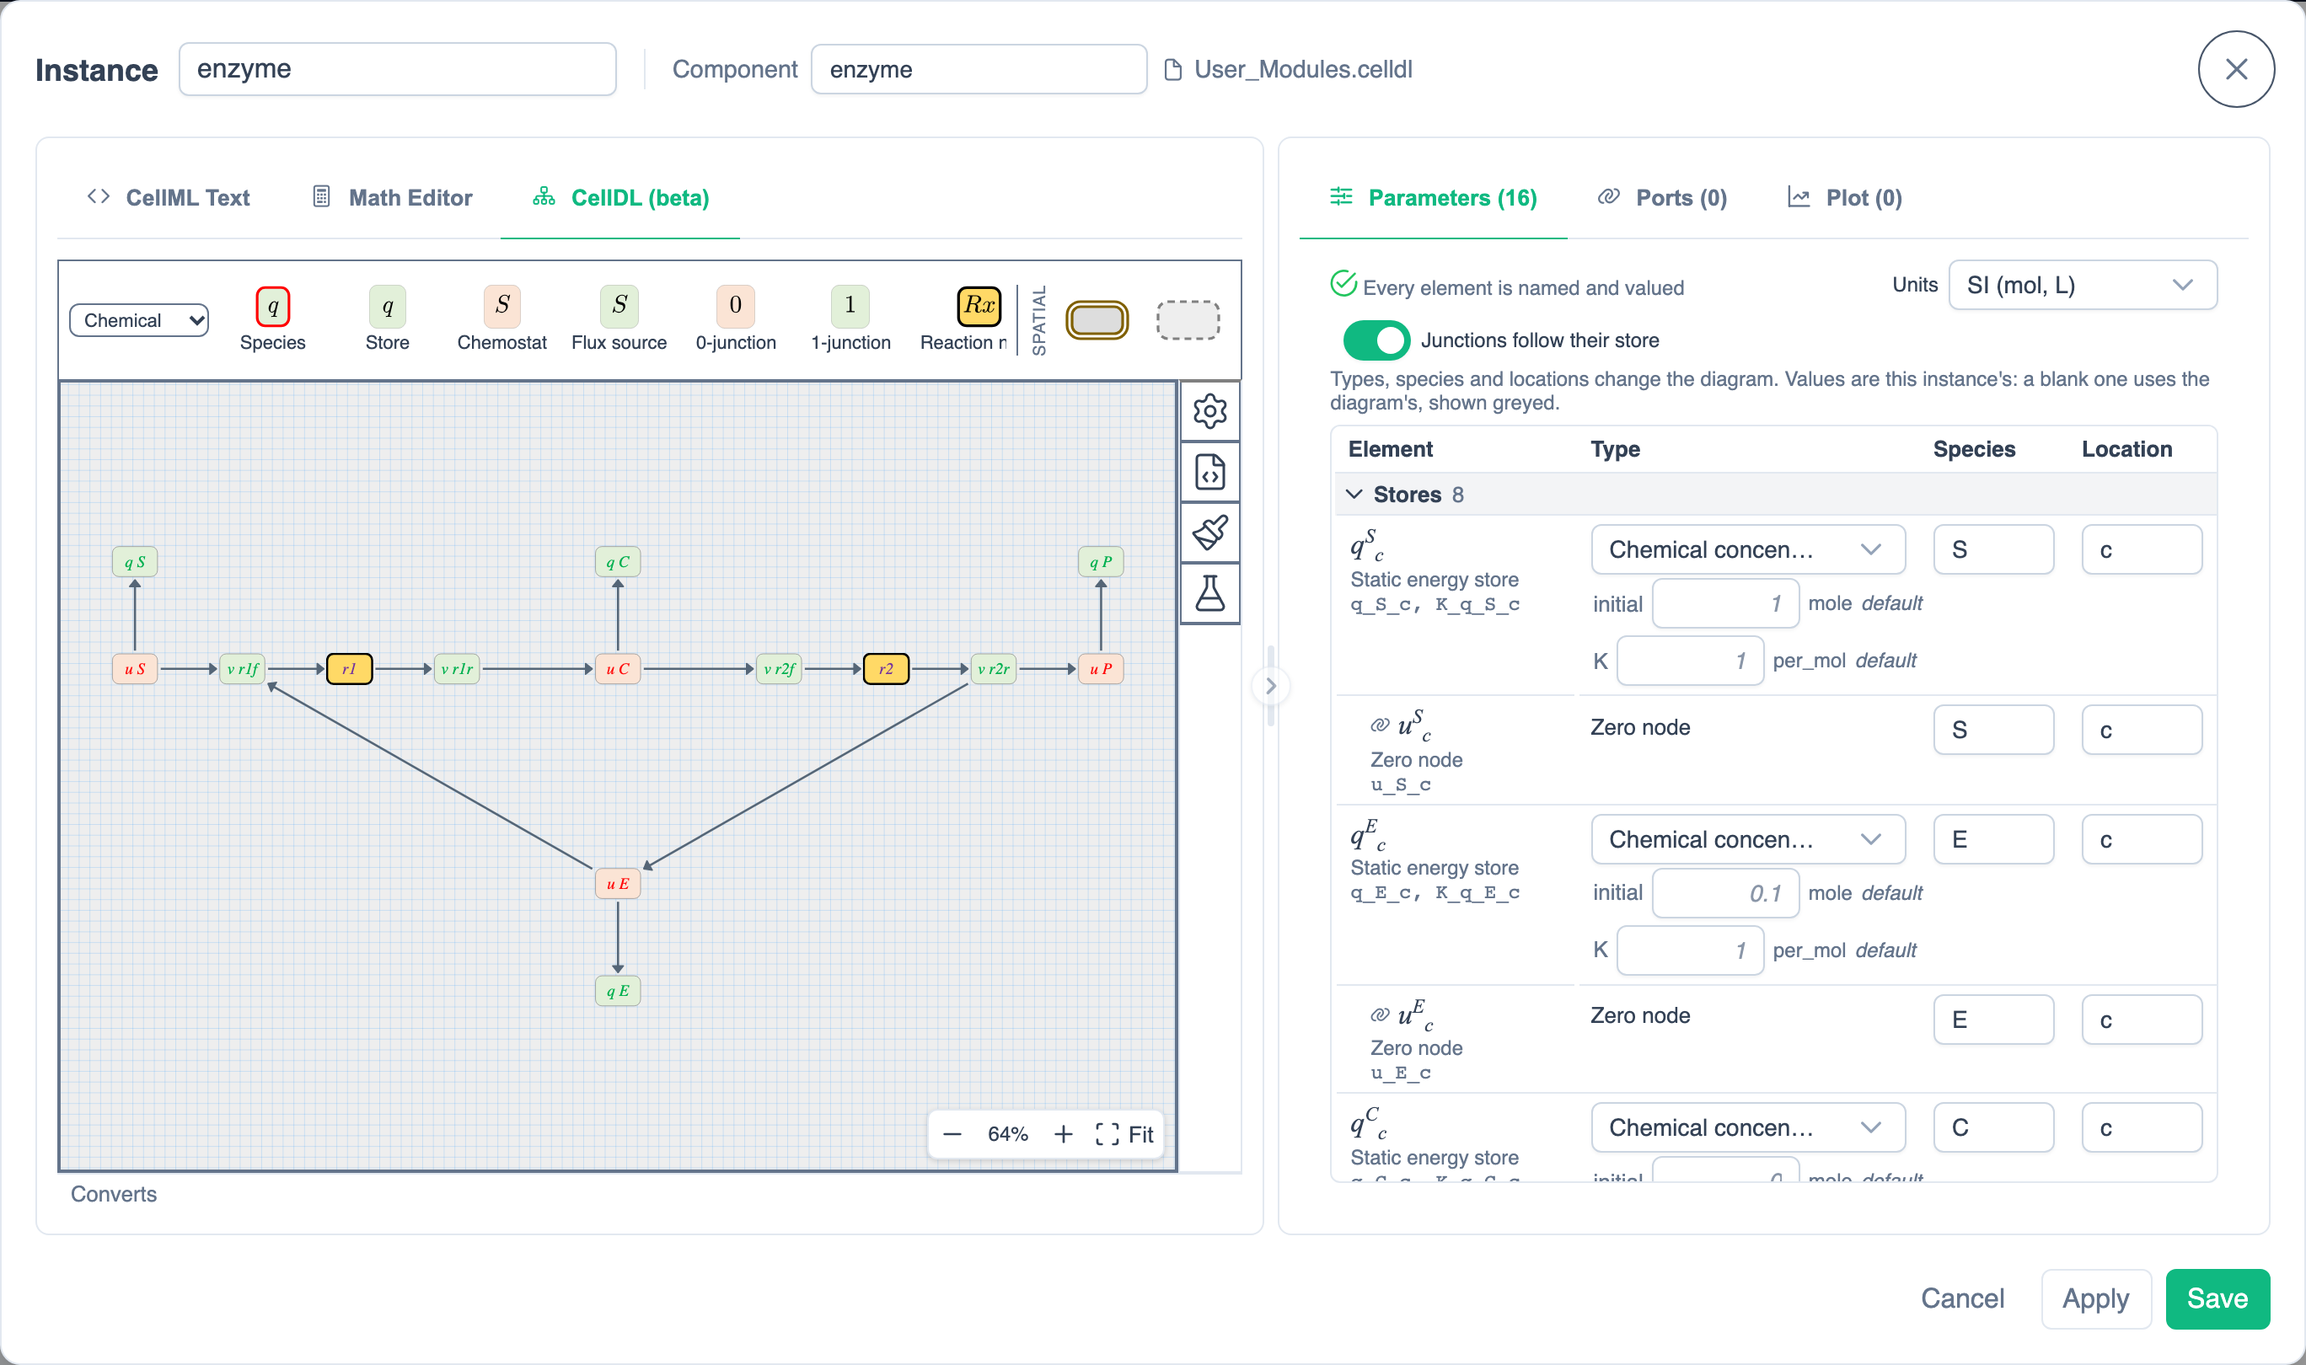
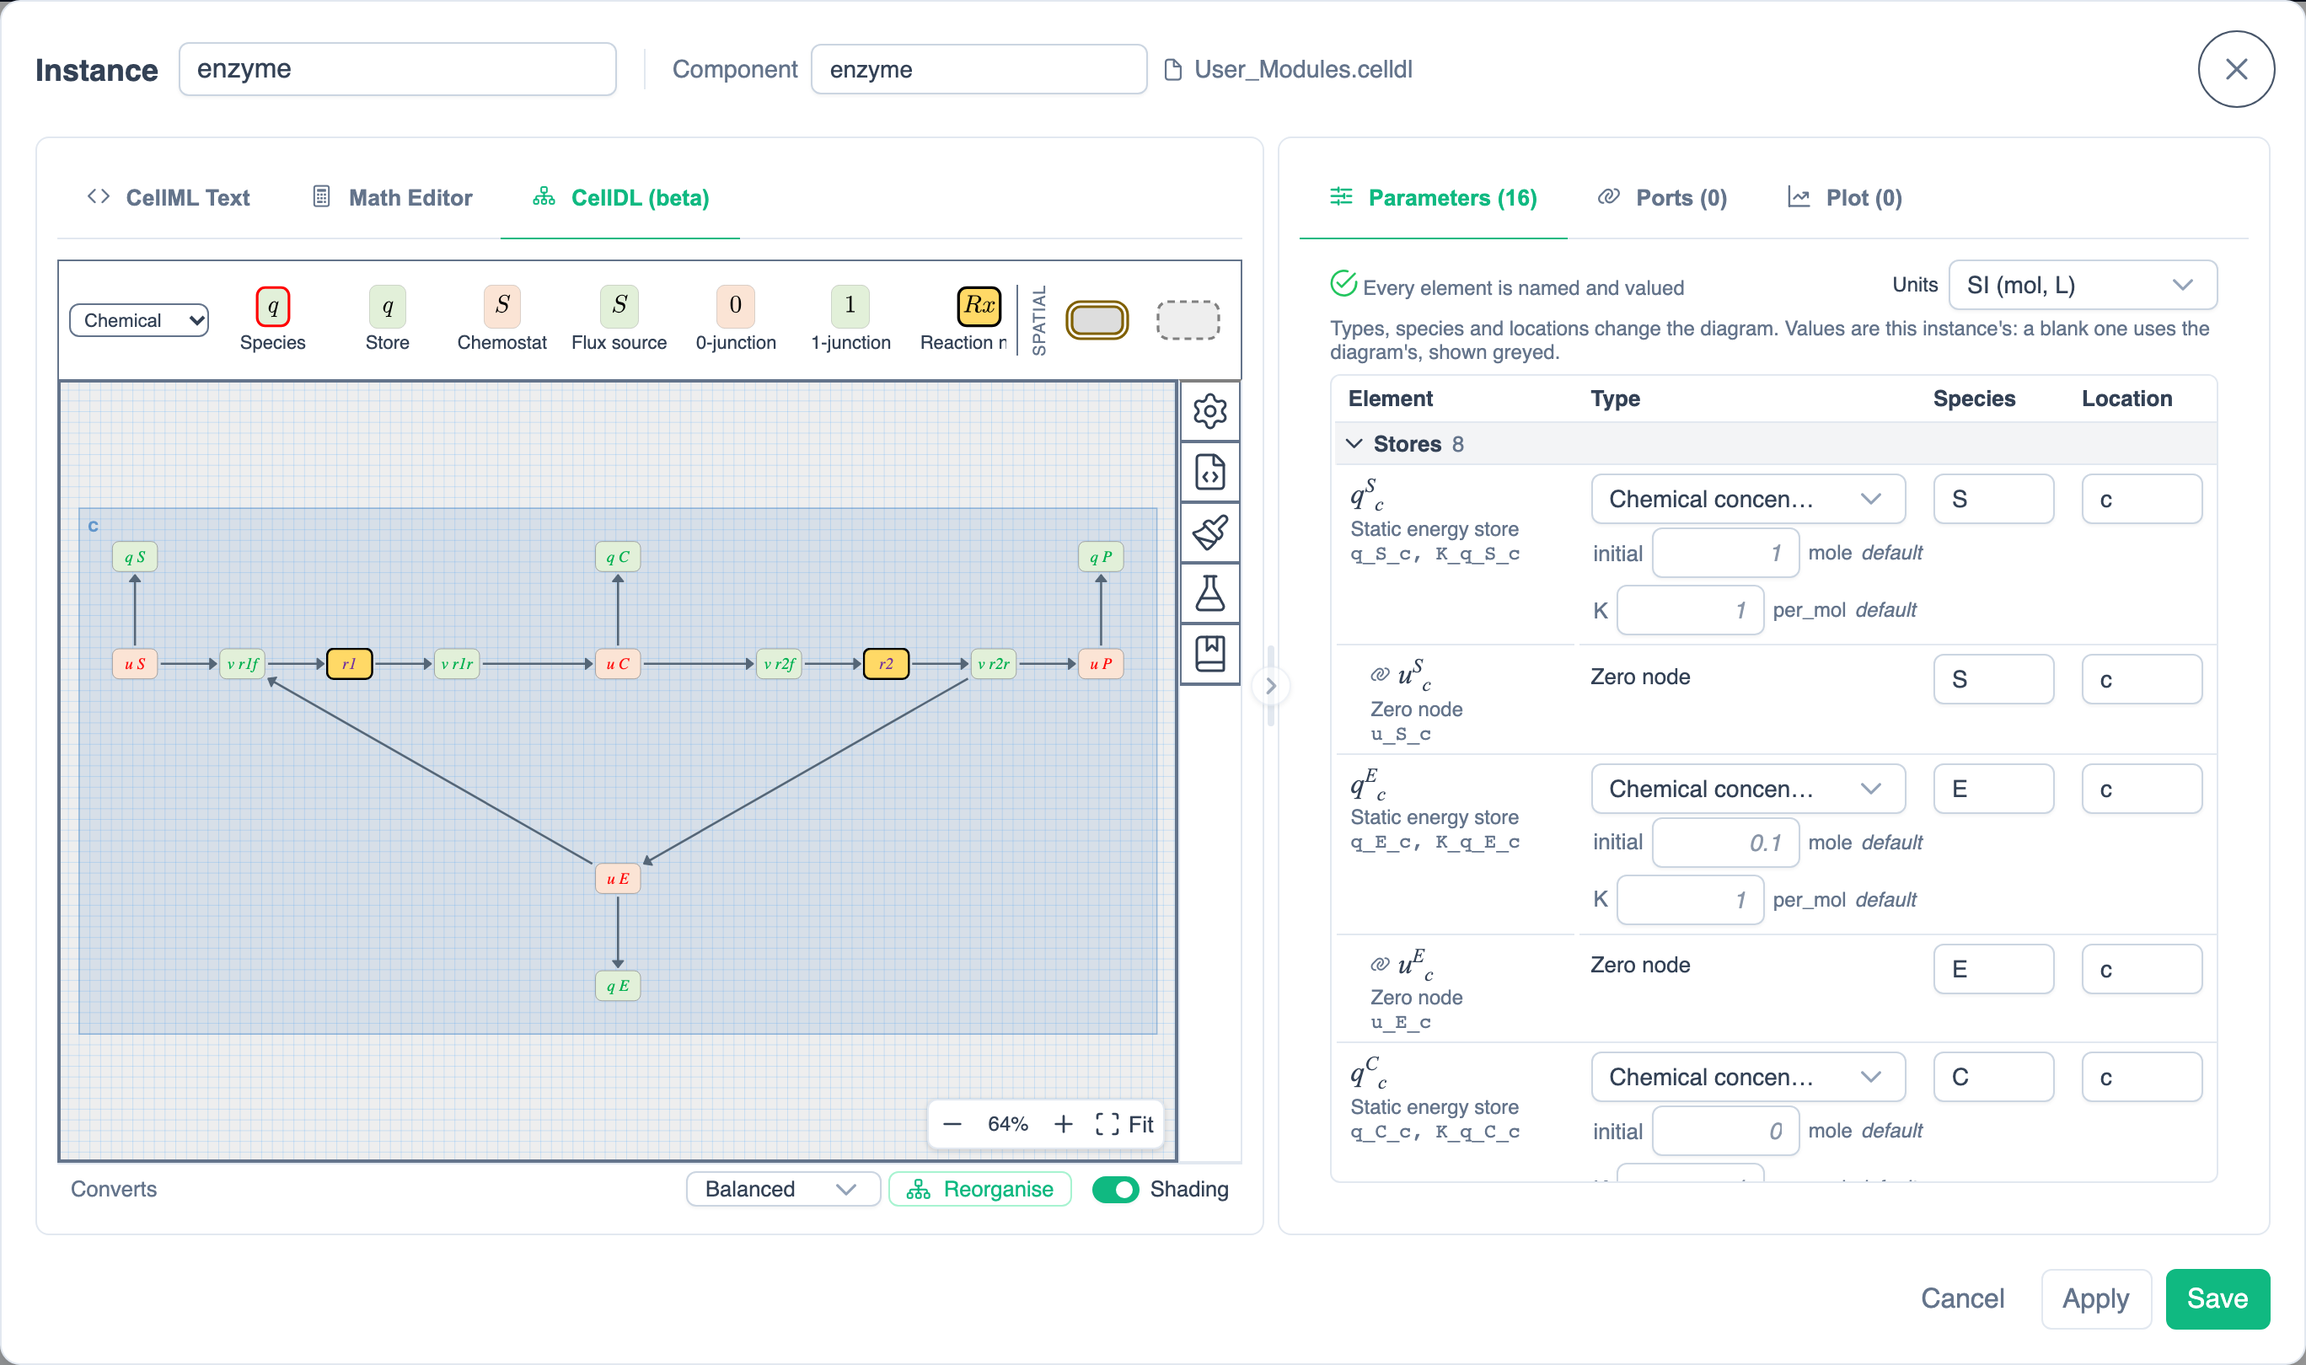
Bring the CellDL docs up to date
Document scrolling modes, exact Align and Straighten, looser reaction
equations, the Annotations panel, law styles, CellML Text section
headings, and the status line's Reorganise and Shading. Drop the removed
Junctions follow their store switch. Regenerate the CellDL screenshots
and add one of the Annotations panel.

diff --git a/tests/playwright/docs_screenshots.py b/tests/playwright/docs_screenshots.py
@@ -473,6 +473,29 @@ def celldl_issues(page):
     save(page, "celldl-issues", clip=clip_around([dialog.locator(".celldl-live"), popover], margin=16))
 
 
+def celldl_annotations(page):
+    dialog = open_celldl_module(page, ENZYME, ENZYME_MODULE)
+    host = page.locator(".celldl-pane .celldl-host")
+    host.locator("#annotations-panel").click()
+    # The panel rereads the diagram as it opens, dropping an entry made first, so it's entered again until kept.
+    chebi = host.get_by_label(re.compile(r"^ChEBI ID of S\b"))
+    apply = host.get_by_role("button", name="Apply", exact=True)
+    for _ in range(5):
+        chebi.fill("17234")
+        chebi.press("Tab")
+        try:
+            expect(apply).to_be_enabled(timeout=1000)
+            break
+        except AssertionError:
+            pass
+    chebi.scroll_into_view_if_needed()
+    page.evaluate("document.activeElement?.blur()")
+    page.mouse.move(5, VIEWPORT["height"] - 5)
+    page.wait_for_timeout(600)
+    dismiss_toasts(page)
+    save(dialog.locator(".left-pane"), "celldl-annotations")
+
+
 SHOTS = {
     "phlynx_ui": phlynx_ui,
     "toolbar": toolbar,
@@ -496,6 +519,7 @@ SHOTS = {
     "celldl-reactions": celldl_reactions,
     "celldl-parameters": celldl_parameters,
     "celldl-issues": celldl_issues,
+    "celldl-annotations": celldl_annotations,
 }
 
 

diff --git a/docs/guides/drawing-celldl-modules.md b/docs/guides/drawing-celldl-modules.md
@@ -3,7 +3,7 @@
 > [!WARNING]
 > **CellDL is in beta.** The editor and its file format may still change. Diagrams you save now should open in later versions of PhLynx, but that isn't guaranteed, so keep copies of work you need.
 
-A **CellDL module** is a <GlossaryLink term="bond-graph">bond graph</GlossaryLink> drawn as a diagram in the Instance Editor's **CellDL (beta)** tab. PhLynx converts the diagram to CellML with bg2cellml as you draw. The generated CellML is shown read-only in the **CellML Text** tab (switch **Simple Mode** on or off to read it either way) and in the **Math Editor**. Once saved, a CellDL module is placed, connected, simulated and exported like any other module.
+A **CellDL module** is a <GlossaryLink term="bond-graph">bond graph</GlossaryLink> drawn as a diagram in the Instance Editor's **CellDL (beta)** tab. PhLynx converts the diagram to CellML with bg2cellml as you draw. The generated CellML is shown read-only in the **CellML Text** tab (switch **Simple Mode** on or off to read it either way) and in the **Math Editor**. CellML Text groups its equations under headings: for a chemical model **Chemical potentials**, **Reaction affinities**, **Reaction flux**, **Species flux** and **Mass conservation** (the ODEs, last); other domains get general titles such as **Potentials** and **Conservation**. The headings are shown only in PhLynx: the CellML has no comments. Once saved, a CellDL module is placed, connected, simulated and exported like any other module.
 
 ![The Instance Editor's CellDL tab, with the palette above the diagram and the Parameters tab beside it](../assets/images/celldl-editor.png){.align-center width="800px"}
 
@@ -22,13 +22,14 @@ The **palette** above the diagram holds the elements. Its dropdown picks the dom
 - **Place an element:** drag a tile onto the canvas, or click the tile and then click the canvas (each click places another; press Esc or click the tile again to stop). Right-click empty canvas and choose **Add element…** to search for one where you clicked.
 - **Bond two elements:** hover an element, then drag from the handle that appears on its edge to the other element; or hold Ctrl (Cmd on Mac) and drag from the element itself. Valid targets are marked and the rest dimmed. A bond's direction matters: drawn the wrong way, it is refused with a message saying which way to drag, such as *Bonds point into a store. Drag from the junction to the store.*
 - **Select:** click an element; hovering one lists its variables. Delete or Backspace removes the selection.
-- **Align and distribute:** select two or more elements and use the buttons at the top right of the canvas (**Align left**, **Align centre**, **Align top**, …; distributing needs three or more). Bonds between the selected elements are straightened.
-- **Zoom and pan:** pinch, or Ctrl/Cmd+scroll wheel, zooms; scroll or a two-finger swipe pans (Shift+wheel pans across). The controls at the bottom right zoom out (-), in (+) and **Fit** (Shift+1). A diagram opens fitted to the view, at no more than 100%, or at the zoom you last left that module at if that was closer.
+- **Align and distribute:** select two or more elements and use the buttons at the top right of the canvas (**Align left**, **Align centre**, **Align top**, …; distributing needs three or more). Aligning centres puts them exactly on one line, and bonds between the selected elements are straightened.
+- **Straighten:** right-click a bent bond, or a selection with bent bonds between its elements, and choose **Straighten** to remove the bends (one undo step). It is offered only when there are bends.
+- **Zoom and pan:** by default a mouse wheel zooms and a trackpad's two-finger scroll pans (Shift+wheel pans across). Pinching, or Ctrl/Cmd+wheel, always zooms. The **Scrolling in CellDL diagrams** [setting](#settings) (**Automatic**, **Pan** or **Zoom**) changes what plain scrolling does. The controls at the bottom right zoom out (-), in (+) and **Fit** (Shift+1). A diagram opens fitted to the view, at no more than 100%, or at the zoom you last left that module at if that was closer.
 - **Undo and redo:** Ctrl/Cmd+Z and Ctrl/Cmd+Shift+Z or Ctrl/Cmd+Y while working in the diagram, including **Style** panel edits. Undo in another tab doesn't touch the diagram.
 
 ### Panels {#panels}
 
-The icons on the right of the canvas open four panels:
+The icons on the right of the canvas open five panels:
 
 | Panel | Icon | Use |
 | :--- | :--- | :--- |
@@ -36,25 +37,36 @@ The icons on the right of the canvas open four panels:
 | **Metadata** | Document | The diagram's metadata. |
 | **Style** | Brush | Colours, lines and text of the selection. |
 | **Reactions** | Flask | Each reaction as an equation; see below. |
+| **Annotations** | Book | Ontology terms for each reaction and species; see [Annotating](#annotations). |
 
 ### Writing Reactions as Equations {#reactions-panel}
 
 ![The Reactions panel listing each reaction's equation](../assets/images/celldl-reactions.png){.align-center width="600px"}
 
-The **Reactions** panel lists each reaction as an equation, such as `A[c] + 2 B[c] + ATP[c] ⇌ C[c]`. Species are written `Name[location]`, joined by ` + `, with a coefficient before a species and a space (`2 B[c]`).
+The **Reactions** panel lists each reaction as an equation, such as `A[c] + 2 B[c] + ATP[c] ⇌ C[c]`. Species are written `Name[location]`, joined by `+`. Spaces around `+` and the arrow are optional. A number before a species is always its coefficient (`2B[c]` or `2 B[c]`), so a species name can't start with a number: such a name is refused with a message. The arrow can be `⇌`, `⇄`, `↔`, `→`, `<=>`, `<->`, `=>`, `->` or `=`.
 
 - **Edit a reaction:** change its equation and press Enter. A new species gets a new store, placed beside the reaction; a removed species loses its bond; a coefficient sets the bond's count. Esc restores the equation.
 - **Add a reaction:** type a name (optional; unnamed reactions are R1, R2, …) and an equation such as `S[c] + E[c] <=> C[c]` under **New reaction**, then press Enter.
 
 New elements start with parameters of 1 and initial values of 0. Set their values in the [Parameters tab](#parameters).
 
+### Annotating {#annotations}
+
+![The Annotations panel, with a ChEBI ID entered for species S](../assets/images/celldl-annotations.png){.align-center width="600px"}
+
+The **Annotations** panel lists every reaction and species in the diagram. Give a reaction its **Rhea** ID (or, ticked **Lumped**, the Rhea IDs of its parts), an SBO **Type** and an optional **UniProt** mediator; give a species its **ChEBI** entity and **GO** compartment (**Fill** sets one GO term for every species in a location). **view** opens a term's entry. **Apply** keeps the terms, which are saved with the diagram.
+
+### Element Styles {#element-styles}
+
+An element whose template has its own constitutive law, rather than its domain's default, is drawn in that law's style, with a small law label (such as *sat*) before its symbol.
+
 ### Compartments and Regions {#compartments}
 
-The palette's **Spatial** tiles draw a **Compartment** (a box with a membrane wall) or a **Region** (a dashed box) round elements: click or drop to place one, or drag on the canvas to draw it. They are decorative only. An element's location comes from its own **Location** field, not from the box it sits in.
+The palette's **Spatial** tiles draw a **Compartment** (a box with a membrane wall) or a **Region** (a dashed box) round elements: click or drop to place one, or drag on the canvas to draw it. They are decorative only. An element's location comes from its own **Location** field, not from the box it sits in. [Location shading](#status-line) draws over the boxes.
 
 ## Live Conversion {#live-conversion}
 
-The line below the diagram says whether it converts:
+The status line below the diagram says whether it converts:
 
 | Status | Means |
 | :--- | :--- |
@@ -68,13 +80,20 @@ When there are issues, click the status (or focus it and press Enter) to list th
 
 ![The list of conversion issues, opened from the status line](../assets/images/celldl-issues.png){.align-center width="600px"}
 
+### Reorganise and Shading {#status-line}
+
+The right end of the status line holds:
+
+- **Reorganise**, with its mode dropdown (**Balanced** by default; hover a mode for what it favours), lays the diagram out again by location and then says what changed. It is one undo step, and Compartment and Region boxes move with their contents.
+- **Shading** switches location shading: a shaded region for each location, drawn behind the elements and over Compartment and Region boxes. Only the display changes. The same switch is in [Settings](#settings).
+
 ## The Parameters Tab {#parameters}
 
 ![The CellDL Parameters tab with the Units dropdown open](../assets/images/celldl-parameters.png){.align-center width="500px"}
 
 For a CellDL module, the **Parameters** tab lists the diagram's elements, grouped as **Stores**, **Reactions**, **Junctions**, **Other elements** and **Constants**.
 
-- **Type, Species, Location** change the diagram (one undo step each). With **Junctions follow their store** on, renaming a store's species or location renames its 0-junction too. These fields need the diagram shown; **Show diagram** switches to it.
+- **Type, Species, Location** change the diagram (one undo step each). A store's 0-junction always follows its species and location. These fields need the diagram shown; **Show diagram** switches to it.
 - **Values** are this instance's own. A blank value uses the diagram's, shown greyed with **default** beside it. Other instances of the module keep their own values. Values typed for a variable that an edit renames move to the new name.
 - **computed** marks a variable the math works out (such as an inductor's acceleration), which takes no value.
 - **Set by** *instance.variable* marks a value a [connection](#connecting) supplies; the field is read-only.
@@ -121,6 +140,8 @@ CellDL modules connect like CellML modules: add ports on the **Ports** tab, then
 In **Settings** (cog icon), under **CellDL diagrams**:
 
 - **Bond arrowheads:** **Classic** (a closed arrowhead, the default) or **Bond graph** (a half arrow). Only the display changes.
+- **Scrolling in CellDL diagrams:** **Automatic** (the default: a mouse wheel zooms, a trackpad pans), **Pan** or **Zoom**. Pinching, or Ctrl/Cmd+wheel, always zooms.
+- **Location shading:** on by default; the same as the status line's **Shading** switch.
 - **New CellDL modules: unit system:** **Cellular (fmol, pL)** (the default) or **SI (mol, L)**. Each module keeps its own after that.
 
 ## Saving and Exporting {#exporting}

diff --git a/docs/reference/ui-overview.md b/docs/reference/ui-overview.md
@@ -130,7 +130,7 @@ The header holds the **Instance** name (unique), the **Component** name and the 
 
 ![Instance Editor on the Ports tab](../assets/images/edit-module-detail.png){.align-center width="800px"}
 
-* **Left pane:** **CellML Text** or **Math Editor**, two views of the same equations; see [Writing CellML](../guides/writing-cellml.md). The **CellDL (beta)** tab draws the module as a bond-graph diagram instead, whose generated CellML the other two tabs show read-only; see [Drawing CellDL Modules](../guides/drawing-celldl-modules.md). It is locked for CellML modules.
+* **Left pane:** **CellML Text** or **Math Editor**, two views of the same equations; see [Writing CellML](../guides/writing-cellml.md). The **CellDL (beta)** tab draws the module as a bond-graph diagram instead, whose generated CellML the other two tabs show read-only; see [Drawing CellDL Modules](../guides/drawing-celldl-modules.md). Its status line shows live conversion (click it to list issues), **Reorganise** with its mode dropdown, and the **Shading** switch; see [Live Conversion](../guides/drawing-celldl-modules.md#live-conversion). It is locked for CellML modules.
 * **Right pane:** **Parameters**, **Ports** and **Plot** tabs (collapsible, resizable).
 * **Footer:** **Cancel**, **Apply** (save and keep editing) and **Save** (Ctrl/Cmd+Enter). **Apply math changes to all N instances** also updates instances sharing the component.
 
@@ -218,5 +218,5 @@ Opened with **Settings** (cog icon).
 | :--- | :--- |
 | Units | **Units suggestion format**: CellML built-in or SI base units |
 | Simulation | **Plot inspection modules**; **Show data items** (in Edit obs_data) |
-| CellDL diagrams | **Bond arrowheads** (Classic or Bond graph); **New CellDL modules: unit system** (Cellular or SI); see [Settings](../guides/drawing-celldl-modules.md#settings) |
+| CellDL diagrams | **Bond arrowheads** (Classic or Bond graph); **Scrolling in CellDL diagrams** (Automatic, Pan or Zoom); **Location shading**; **New CellDL modules: unit system** (Cellular or SI); see [Settings](../guides/drawing-celldl-modules.md#settings) |
 | Image export | **Image format** (PNG or SVG); **Include warning symbols** |

diff --git a/docs/reference/keyboard-shortcuts.md b/docs/reference/keyboard-shortcuts.md
@@ -53,7 +53,7 @@ These work while you are working in the diagram (after clicking it).
 | Bond from an element's body | Ctrl+drag (Cmd+drag on Mac) |
 | Stop placing an armed palette element | Esc |
 | Zoom in / out / to fit | + / - / Shift+1 |
-| Zoom / pan | Pinch or Ctrl/Cmd+scroll / scroll or two-finger swipe (Shift+scroll pans across) |
+| Zoom / pan | Pinch, Ctrl/Cmd+scroll or a mouse wheel / two-finger trackpad scroll (Shift+scroll pans across); see [Settings](../guides/drawing-celldl-modules.md#settings) |
 | Apply an equation in the Reactions panel | Enter (Esc restores it) |
 
 See [Drawing CellDL Modules](../guides/drawing-celldl-modules.md#drawing).
